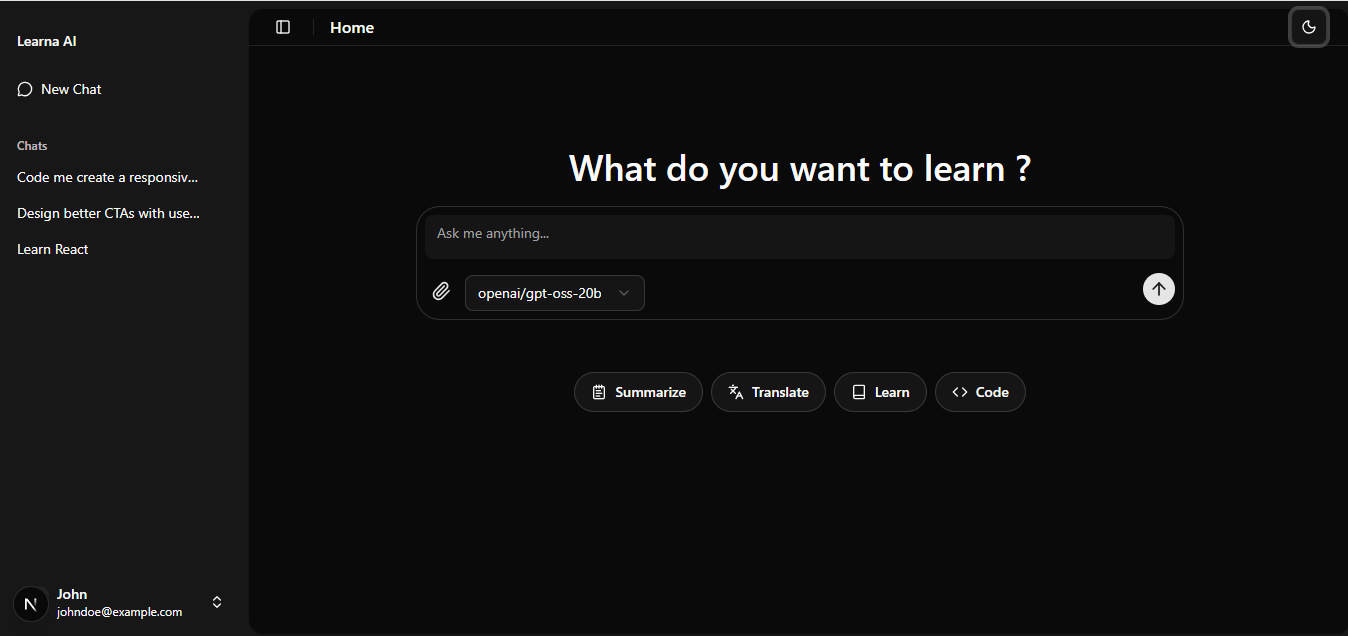
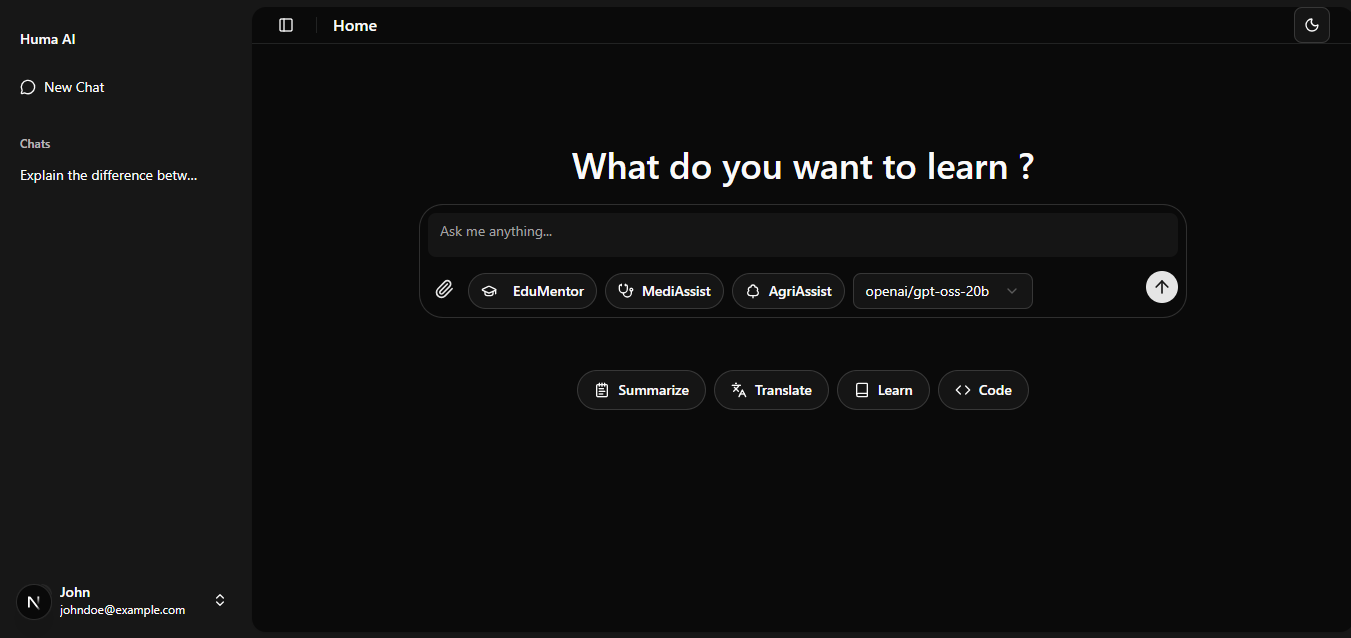
add Huma templates

diff --git a/components/features-12.tsx b/components/features-12.tsx
@@ -5,34 +5,36 @@ import {
   AccordionItem,
   AccordionTrigger,
 } from "@/components/ui/accordion";
-import { Bot, Code, GraduationCap, Pencil, Stethoscope, TreeDeciduous } from "lucide-react";
+import { Bot, GraduationCap, Stethoscope, TreeDeciduous } from "lucide-react";
 import Image from "next/image";
 import { useState } from "react";
 import { motion, AnimatePresence } from "motion/react";
 import { BorderBeam } from "@/components/magicui/border-beam";
-import code from "@/public/code.png";
-import design from "@/public/design.png";
-import learn from "@/public/learn.png";
+import general_assistant_agent from "@/public/general-assistant-agent.png";
+import tutor_assistant_agent from "@/public/tutor-agent.png";
+import health_assistant_agent from "@/public/health-agent.png";
 import agriculture_agent from "@/public/agriculture-agent.png";
-import { Book } from "lucide-react";
 export default function Features() {
-  type ImageKey = "item-1" | "item-2" | "item-3";
+  type ImageKey = "item-1" | "item-2" | "item-3" | "item-4";
   const [activeItem, setActiveItem] = useState<ImageKey>("item-1");
 
   const images = {
     "item-1": {
-      image: learn,
-      alt: "Learn",
+      image: general_assistant_agent,
+      alt: "General Assistant",
     },
     "item-2": {
-      image: code,
-      alt: "Code",
+      image: tutor_assistant_agent,
+      alt: "Tutor assistant",
     },
     "item-3": {
-      image: design,
-      alt: "Design",
+      image: health_assistant_agent,
+      alt: "Health assistant",
     },
-  
+    "item-4": {
+      image: agriculture_agent,
+      alt: "Agriculture assistant",
+    },
   };
 
   return (
@@ -41,10 +43,12 @@ export default function Features() {
       <div className="mx-auto max-w-5xl space-y-8 px-6 md:space-y-16 lg:space-y-20 dark:[--color-border:color-mix(in_oklab,var(--color-white)_10%,transparent)]">
         <div className="relative z-10 mx-auto max-w-2xl space-y-6 text-center">
           <h2 className="text-balance text-4xl font-semibold lg:text-6xl">
-            Discover Your AI Tutor
+            Discover Your AI Agents
           </h2>
           <p>
-          Your AI mentor to learn anything and faster.
+            Each agent is designed with a unique expertise from learning and
+            health to agriculture and everyday support so you always have the
+            right companion at your side
           </p>
         </div>
 
@@ -58,49 +62,58 @@ export default function Features() {
             <AccordionItem value="item-1">
               <AccordionTrigger>
                 <div className="flex items-center gap-2 text-base">
-                  <Book className="size-4" />
-                  Learn
+                  <Bot className="size-4" />
+                  General Assistant
                 </div>
               </AccordionTrigger>
               <AccordionContent>
-               <ul className="list-disc">
-            <li>Clear, personalized explanations for any concept. </li>
-            <li>Interactive quizzes and practical exercises.</li> 
-            <li> Track your progress with tailored learning paths.</li>
-            </ul>
+                Your Everyday AI Helper. A versatile AI assistant like ChatGPT.
+                Ready to answer any type of question from science to culture to
+                daily life with clarity, precision, and multilingual support.
               </AccordionContent>
             </AccordionItem>
             <AccordionItem value="item-2">
               <AccordionTrigger>
                 <div className="flex items-center gap-2 text-base">
-                  <Code className="size-4" />
-                  Code
+                  <GraduationCap className="size-4" />
+                  Tutor AI
                 </div>
               </AccordionTrigger>
               <AccordionContent>
-              <ul className="list-disc">
-            <li>Generate clean and optimized code in seconds.</li>
-            <li>Supports multiple languages (JavaScript, Python, TypeScript, and more).</li> 
-            <li>Step-by-step explanations to help you understand while you build.</li>
-            </ul>
+                Your Interactive Study Partner. An AI tutor that explains
+                concepts step by step, adapts to your level, provides examples,
+                exercises, and feedback. Just like having a personal teacher by
+                your side.
               </AccordionContent>
             </AccordionItem>
             <AccordionItem value="item-3">
               <AccordionTrigger>
                 <div className="flex items-center gap-2 text-base">
-                  <Pencil className="size-4" />
-                  Design
+                  <Stethoscope className="size-4" />
+                  Health AI
                 </div>
               </AccordionTrigger>
               <AccordionContent>
-              <ul className="list-disc">
-            <li>Create modern interfaces with reusable components and layouts.</li>
-            <li>Get smart suggestions for colors, typography, and styles.</li> 
-            <li>Generate responsive and accessible designs instantly.</li>
-            </ul>
+                Your Smart Health Companion. An AI medical assistant for both
+                patients and professionals. It explains symptoms, prevention,
+                and treatments in clear language, asks clarifying questions, and
+                provides safe, evidence-based recommendations.
               </AccordionContent>
             </AccordionItem>
-          
+            <AccordionItem value="item-4">
+              <AccordionTrigger>
+                <div className="flex items-center gap-2 text-base">
+                  <TreeDeciduous className="size-4" />
+                  Agriculture AI
+                </div>
+              </AccordionTrigger>
+              <AccordionContent>
+                Your Agronomy Expert. An AI agriculture assistant designed for
+                farmers and agronomy professionals. It gives guidance on crops,
+                soil management, irrigation, and sustainable farming practices,
+                helping you grow smarter and healthier harvests.
+              </AccordionContent>
+            </AccordionItem>
           </Accordion>
 
           <div className="bg-background relative flex overflow-hidden rounded-3xl border p-2">

diff --git a/components/dashboard-form.tsx b/components/dashboard-form.tsx
@@ -42,7 +42,7 @@ export default function PromptInputWithActions() {
   const [isLoading, setIsLoading] = useState(false);
   const [files, setFiles] = useState<File[]>([]);
   const uploadInputRef = useRef<HTMLInputElement>(null);
-  const [selectedAgent, setSelectedAgent] = useState<string>("tutor");
+  const [selectedAgent, setSelectedAgent] = useState<string>("assistant");
   const models = process.env.NEXT_PUBLIC_AI_MODEL?.split(",") || [
     "openai/gpt-oss-20b",
   ];
@@ -190,6 +190,65 @@ export default function PromptInputWithActions() {
                 />
                 <Paperclip className="text-primary size-5" />
               </label>
+            </PromptInputAction>
+
+            <PromptInputAction tooltip="Learn">
+              <Button
+                variant="outline"
+                className={`rounded-full transition-colors duration-500 ease-in-out
+                  
+              ${
+                selectedAgent === "tutor"
+                  ? "bg-blue-500 text-white focus:bg-blue-500 focus:text-white dark:focus:bg-blue-500 dark:focus:text-white dark:bg-blue-500 dark:text-white"
+                  : ""
+              }`}
+                onClick={() => handleClick("tutor")}
+                asChild
+              >
+                <Link href={""}>
+                  <GraduationCap size={18} className="mr-2" />
+                  EduMentor
+                </Link>
+              </Button>
+            </PromptInputAction>
+            <PromptInputAction tooltip="Doctor Assistant">
+              <Button
+                variant="outline"
+                className={`rounded-full transition-colors duration-500 ease-in-out
+                  
+              ${
+                selectedAgent === "health"
+                  ? "bg-blue-500 text-white focus:bg-blue-500 focus:text-white dark:focus:bg-blue-500 dark:focus:text-white dark:bg-blue-500 dark:text-white"
+                  : ""
+              }`}
+                onClick={() => handleClick("health")}
+                asChild
+              >
+                <Link href={""}>
+                  <Stethoscope size={18} />
+                  MediAssist
+                </Link>
+              </Button>
+            </PromptInputAction>
+            <PromptInputAction tooltip="Agriculture and Food">
+              <Button
+                variant="outline"
+                className={`rounded-full transition-colors duration-500 ease-in-out
+                  
+                  
+              ${
+                selectedAgent === "agriculture"
+                  ? "bg-blue-500 text-white focus:bg-blue-500 focus:text-white dark:focus:bg-blue-500 dark:focus:text-white dark:bg-blue-500 dark:text-white"
+                  : ""
+              }`}
+                onClick={() => handleClick("agriculture")}
+                asChild
+              >
+                <Link href={""}>
+                  <TreeDeciduous size={18} />
+                  AgriAssist
+                </Link>
+              </Button>
             </PromptInputAction>
 
             <PromptInputAction tooltip="Select a Model">

diff --git a/components/hero-section.tsx b/components/hero-section.tsx
@@ -8,8 +8,10 @@ import dashboard_light from "@/public/dashboard-light.png";
 import dashboard_dark from "@/public/dashboard-dark.png";
 
 const menuItems = [
-  { name: "Features", href: "#features" },
-
+  { name: "Assistant", href: "#features" },
+  { name: "Education", href: "#features" },
+  { name: "Health", href: "#features" },
+  { name: "Agriculture", href: "#features" },
 ];
 
 export default function HeroSection() {
@@ -30,7 +32,7 @@ export default function HeroSection() {
                   aria-label="home"
                   className="flex items-center space-x-2"
                 >
-                  <h1 className="text-3xl font-bold">Learna</h1>
+                  <h1 className="text-3xl font-bold">Huma</h1>
                 </Link>
 
                 <button
@@ -82,13 +84,17 @@ export default function HeroSection() {
             <div className="mx-auto max-w-7xl px-6">
               <div className="max-w-3xl text-center sm:mx-auto lg:mr-auto lg:mt-0 lg:w-4/5">
                 <h1 className="mt-8 text-balance text-4xl font-semibold md:text-5xl xl:text-6xl xl:[line-height:1.125]">
-                  Your Smart AI Companion To Learn
+                  Your Smart AI Companion, Anytime, Anywhere
                 </h1>
                 <p className="mx-auto mt-8 hidden max-w-2xl text-wrap text-lg sm:block">
-                Whether you are professionals or students, it combines support and efficiency to make your learning a reality.
+                  Learn, get health guidance, improve farming practices, or ask
+                  anything with AI agents designed to support you in every
+                  aspect of life.
                 </p>
                 <p className="mx-auto mt-6 max-w-2xl text-wrap sm:hidden">
-                Whether you are professionals or students, it combines support and efficiency to make your learning a reality.
+                  Learn, get health guidance, improve farming practices, or ask
+                  anything with AI agents designed to support you in every
+                  aspect of life.
                 </p>
 
                 <div className="mt-8">
@@ -128,7 +134,6 @@ export default function HeroSection() {
             </div>
           </div>
         </section>
-       
       </main>
     </>
   );

diff --git a/components/footer.tsx b/components/footer.tsx
@@ -1,16 +1,43 @@
 import Link from "next/link";
 
-
+const links = [
+  {
+    title: "Assistant",
+    href: "#features",
+  },
+  {
+    title: "Education",
+    href: "#features",
+  },
+  {
+    title: "Health",
+    href: "#features",
+  },
+  {
+    title: "Agriculture",
+    href: "#features",
+  },
+];
 
 export default function FooterSection() {
   return (
     <footer className="py-16 md:py-32">
       <div className="mx-auto max-w-5xl px-6">
         <Link href="/" aria-label="go home" className="mx-auto block size-fit">
-          <h1 className="text-3xl font-bold">Learna</h1>
+          <h1 className="text-3xl font-bold">Huma</h1>
         </Link>
 
-       
+        <div className="my-8 flex flex-wrap justify-center gap-6 text-sm">
+          {links.map((link, index) => (
+            <Link
+              key={index}
+              href={link.href}
+              className="text-muted-foreground hover:text-primary block duration-150"
+            >
+              <span>{link.title}</span>
+            </Link>
+          ))}
+        </div>
         <div className="my-8 flex flex-wrap justify-center gap-6 text-sm">
           <Link
             href="https://x.com/migan_osiris"

diff --git a/components/dashboard-sidebar.tsx b/components/dashboard-sidebar.tsx
@@ -20,6 +20,7 @@ import axios from "axios";
 import Link from "next/link";
 import { redirect } from "next/navigation";
 import { NavFavorites } from "@/components/nav-favorites";
+import { useRouter } from "next/navigation";
 /*const data = {
   navSecondary: [
     {
@@ -45,6 +46,8 @@ export function DashboardSidebar({
       url: string;
     }[]
   >([]);
+
+  const router = useRouter();
 
   useEffect(() => {
     const storedToken = localStorage.getItem("token");
@@ -92,6 +95,7 @@ export function DashboardSidebar({
         }
       );
       setNavMain((prev) => prev.filter((item) => item.id !== id));
+      router.push("/dashboard");
     } catch (err) {
       console.error("Delete error:", err);
     }
@@ -124,7 +128,7 @@ export function DashboardSidebar({
             <SidebarMenuButton size="lg" asChild>
               <a href="#">
                 <div className="grid flex-1 text-left text-sm leading-tight">
-                  <span className="truncate font-medium">Learna AI</span>
+                  <span className="truncate font-medium">Huma AI</span>
                 </div>
               </a>
             </SidebarMenuButton>

diff --git a/components/call-to-action.tsx b/components/call-to-action.tsx
@@ -9,12 +9,18 @@ export default function CallToAction() {
           <h2 className="text-balance text-4xl font-semibold lg:text-5xl">
             Access Now
           </h2>
-          <p className="mt-4">Acces your Smart AI Tutor</p>
+          <p className="mt-4">Acces your Smart AI Companion</p>
 
           <div className="mt-12 flex flex-wrap justify-center gap-4">
             <Button asChild size="lg">
               <Link href="https://github.com/Osiris8/learuma" target="_blank">
                 <span>Get Started</span>
+              </Link>
+            </Button>
+
+            <Button asChild size="lg" variant="outline">
+              <Link href="/">
+                <span>Demo</span>
               </Link>
             </Button>
           </div>

diff --git a/components/chat.tsx b/components/chat.tsx
@@ -410,7 +410,11 @@ export default function Chat() {
                     <Paperclip className="text-primary size-5" />
                   </label>
                 </PromptInputAction>
-
+                <PromptInputAction tooltip="AI Agent type">
+                  <Button variant="outline" className="rounded-full">
+                    {agent} mode
+                  </Button>
+                </PromptInputAction>
                 <PromptInputAction tooltip="AI model">
                   <Button variant="outline" className="rounded-full">
                     {model}
